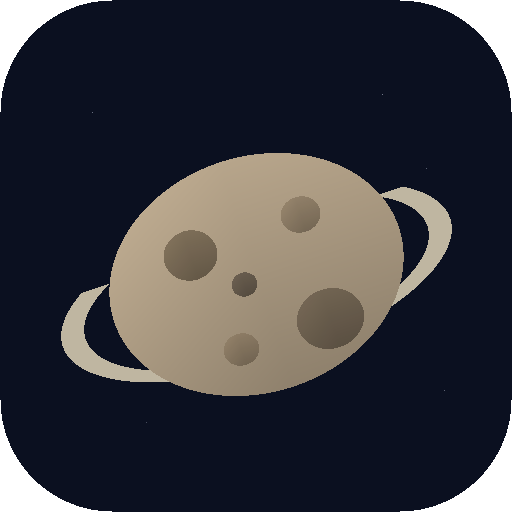
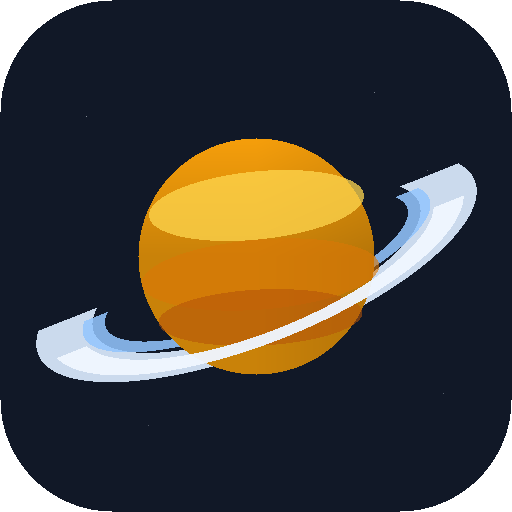
update config

Changed region(s): [[0.0625, 0.25, 0.9375, 0.7812]]

diff --git a/content/publications/_index.md b/content/publications/_index.md
@@ -1,12 +1,18 @@
 ---
 title: Publications
-cms_exclude: true
+date: 2024-01-01
+type: landing
 
-# View.
-view: citation
+sections:
+  - block: markdown
+    content:
+      title: "Publications"
+      subtitle: ""
+      text: |
+        1. **Zhan R.**, D.D.B. Koll, and F. Ding (2024), Novel Atmospheric Dynamics shape Inner Edge of Habitable Zone around White Dwarfs, *The Astrophysical Journal*, 971, 125. [\[journal\]](https://iopscience.iop.org/article/10.3847/1538-4357/ad54c1) [\[arxiv\]](https://arxiv.org/abs/2406.03189)
+        2. **Zhan R.** and D.D.B. Koll, Reinterpreting the JWST Observations of 55 Cancri e with a Nongrey General Circulation Model, under review at *The Astrophysical Journal*.
+        3. **Zhan R.** and D.D.B. Koll, Collapse of Thin Secondary Atmospheres on Hot Rocky Exoplanets, in prep.
 
-# Optional header image (relative to `static/media/` folder).
-banner:
-  caption: ''
-  image: ''
+    design:
+      columns: '1'
 ---

diff --git a/content/papers/_index.md b/content/papers/_index.md
@@ -1,7 +1,11 @@
 ---
-title: Papers
+title: Publications
 date: 2024-01-01
 type: landing
+_build:
+  render: never
+  list: never
+  publishResources: false
 
 sections:
   - block: markdown
@@ -11,8 +15,8 @@ sections:
       # ⚠️ 注意：text: 后面紧跟一个竖线 |，下面的内容必须缩进！
       text: |
         1. **Zhan R.**, D.D.B.Koll , F. Ding (2024), Novel Atmospheric Dynamics shape Inner Edge of Habitable Zone around White Dwarfs, *The Astrophysical Journal*, 971, 125. [\[journal\]](https://iopscience.iop.org/article/10.3847/1538-4357/ad54c1) [\[arxiv\]](https://arxiv.org/abs/2406.03189)
-        2. **Ruizhi Zhan** and Daniel D.B. Koll, Reinterpreting the JWST Observations of 55 Cancri e with a Nongrey General Circulation Model, under review at *The Astrophysical Journal*.
-        3. **Ruizhi Zhan** and Daniel D.B. Koll, Collapse of Thin Secondary Atmospheres on Hot Rocky Exoplanets, in prep.
+        2. **Zhan R.** and D.D.B.Koll, Reinterpreting the JWST Observations of 55 Cancri e with a Nongrey General Circulation Model, under review at *The Astrophysical Journal*.
+        3. **Zhan R.** and D.D.B.Koll, Collapse of Thin Secondary Atmospheres on Hot Rocky Exoplanets, in prep.
         
     design:
       columns: '1' # 使用单列布局，像传统的文档一样

diff --git a/content/research/hot_gcm/index.md b/content/research/hot_gcm/index.md
@@ -33,17 +33,17 @@ links:
     icon_pack: fas
 ---
 
-[Back to Research Index](/research/)
+[Back to Research](/research/)
 
-Rocky exoplanets with ultra-short orbital period are ideal targets for observations and offer a unique opportunity to study planets in extremely hot environment. Due to atmospheric escape, these planets are more likely to be airless like Mercury or have a secondary atmosphere (non-hydrogen dominated) like Earth. Characterizing secondary atmospheres of such exoplanets provides crucial insights into atmospheric escape, redox and equilibrium chemistry, and the exchange with the interior.
+Rocky exoplanets with ultra-short orbital periods are ideal targets for observations and offer a unique opportunity to study planets in extremely hot environments. Due to atmospheric escape, these planets are more likely to be airless like Mercury or to have a secondary atmosphere (non-hydrogen dominated) like Earth. Characterizing secondary atmospheres of such exoplanets provides crucial insights into atmospheric escape, redox and equilibrium chemistry, and exchange with the interior.
 
 {{< figure src="/images/exoplanet_distribution.png" caption="Orbital periods and radii of confirmed exoplanets as of May 2025. The planets located in the red box are rocky exoplanets with ultra-short orbital periods. The color of each point represents the equilibrium temperature of the planet, ranging from 500 to 3,000 K." width="95%" >}}
 
 Despite extensive observations, most current interpretations predominantly relied on 1D models with non-self-consistent heat redistribution or oversimplified 3D models with unrealistic radiative transfer. However, few 3D models with realistic radiative transfer have been applied to these hot (non-habitable) rocky exoplanets, mainly due to the incompatibility of standard GCM radiative transfer codes with the extremely high temperatures.
 
-{{< figure src="/images/line_profile.png" caption="Gaussian and Lorentz profile for absorption line broadening calculations. The coefficients of determination &alpha;<sub>G</sub> (half-width at half-maximum) and &alpha;<sub>L</sub> strongly depends on temperature (highlighted in red). More information on [HITRAN](https://hitran.org/docs/definitions-and-units/)." width="95%" >}}
+{{< figure src="/images/line_profile.png" caption="Gaussian and Lorentz profiles for absorption line broadening calculations. The coefficients of determination &alpha;<sub>G</sub> (half-width at half-maximum) and &alpha;<sub>L</sub> strongly depend on temperature (highlighted in red). More information on [HITRAN](https://hitran.org/docs/definitions-and-units/)." width="95%" >}}
 
-Here we perform non-grey GCM simulations using the custom correlated-k coefficients developed from the [ExoMol](https://www.exomol.com) database. We first use [ExoCross](https://exocross.readthedocs.io/en/latest/) to calculated the absorption cross section from the absorption lines at a wide range of temperatures and pressures. 
+Here we perform non-grey GCM simulations using the custom correlated-k coefficients developed from the [ExoMol](https://www.exomol.com) database. We first use [ExoCross](https://exocross.readthedocs.io/en/latest/) to calculate the absorption cross section from the absorption lines at a wide range of temperatures and pressures. 
 
 Then we develop custom correlated-k coefficients from the absorption cross section (a paper describing the correlated-k method [here](https://agupubs.onlinelibrary.wiley.com/doi/10.1029/90JD01945)) and validate them against line-by-line radiative transfer [PyRADS](https://github.com/danielkoll/PyRADS). We then perform non-grey GCM simulations, [Isca](https://execlim.github.io/Isca/) coupled with [SOCRATES](https://code.metoffice.gov.uk/trac/socrates) for planets including 55 Cancri e.
 

diff --git a/content/life/music/haochen_concert.md b/content/life/music/haochen_concert.md
@@ -6,16 +6,16 @@ tags: ["music", "concert review"]
 type: docs
 ---
 
-[Back to Music](/life/music/) | [Back to After School Life](/life/)
+[Back to Music](/life/music/) | [Back to Life](/life/)
 
 很庆幸这两天经历了这样一场人生体验：张昊辰、黄屹与国家大剧院管弦乐团（蛋交）演绎的拉赫玛尼诺夫钢琴协奏曲全集（和帕格尼尼主题狂想曲），以及演出结束之后的座谈会：“演奏之外”。首先，这是我人生中第一次听这样马拉松式的音乐会。从下午到晚上，除开小跑步去麦当劳吃的晚饭，在音乐厅听了四个多小时（从座谈会上得知，这可能是历史上第五次这样的演出）。
 
 第一场演出的上半场是拉二。巧合的是，我第一次听拉二是2021年初在武汉琴台音乐厅，也是昊辰演奏的，从那以后我深深的爱上了拉二。我总是翻来覆去地听，会在工作、学习的时候听，会在某个刮大风的夜晚听着走回宿舍，会在每年跨年的时候把进度条拖到第二乐章的结尾，庆祝新年的到来。也许是听了太久被电子设备留存、播放的录音，在现场，昊辰和乐团的演奏给了我全新的感受——尤其是第二乐章高潮后的停顿，弦乐再次渐起仿佛自遥远的时空而来，如浪潮般涌动的旋律，让我一下子没能控制住眼泪。下半场是拉一和帕格尼尼主题狂想曲，虽然对曲目没有那么熟悉，但是也有新的感受。拉一的第一乐章让我感到了压抑，第二乐章“明亮又克制”，第三乐章只记得非常有记忆点的旋律了（开头那个）哈哈哈。帕格尼尼主题狂想曲则是小提琴帕24的变奏版本，我最熟悉的大调变奏（镜像）在现场的演奏也十分震撼。
 
-![Haochen Concert 1](haochen_concert1.jpg)
+![Haochen Concert 1](/images/life/music/haochen_concert1.jpg)
 
 第二场音乐会的上半场是拉四，很遗憾我的审美还在更传统的浪漫乐派。下半场是我最最期待的拉三，其实安排拉三在最后一首就让我很惊讶，这是何等的体力能在演完前面四首曲子之后继续“铲煤”。最后演出更是出乎意料的好，可能是到了马拉松最后一程全力冲刺哈哈哈。第一乐章的大华彩（爽！），非常连贯的第二和第三乐章（无人能拒绝第二乐章结尾和第三乐章开头）（爽！），音色非常美的第二主题（爽！）。总而言之，是一场近乎完美的马拉松。如果一定要挑什么刺，那只能是钢琴和乐团有些地方没对上，可能是因为他们排练时间紧张（后面的座谈会提到真正的排练只有10天）。
 
 在这之后的座谈会，更是完善了这场演出——表演者本人深刻的思考。昊辰说，不应有“天才”这个称呼，“天才”应是常能激起不满的人，艺术创作应该“常常不满”。我不能更认同这个想法了，不只是艺术创作，科研、各行各业的工作都在“不满”中取得进步。昊辰将天赋和努力类比成表演中的音乐和技术，当听众觉得某个音好听的时候，也应当知晓其后的技术。昊辰说，演奏家必须坚持自己的审美，不应被外界影响。然而这很困难，因为我们活在社会里，都会下意识想变成“其他人”。例如人的欲望不是天生就有的，而是社会赋予的。我们应当时刻反思，社会带给了我们什么影响。我们被外界影响是不可控制的，但是可以试图控制、掌握它。昊辰作为演奏家和作者，也讨论了他对文字和音乐的看法。音乐演奏是在重复中锤炼，是生理性的（刻入肌肉记忆哈哈哈）；写书则是给不定性的东西定性，是思想性的。他想要写书，因为音乐是语言，需要被谈论，被形容。
 
-![Haochen Concert 2](haochen_concert2.jpg)
+![Haochen Concert 2](/images/life/music/haochen_concert2.jpg)

diff --git a/content/_index.md b/content/_index.md
@@ -14,7 +14,7 @@ sections:
       # Choose a user profile to display (a folder name within `content/authors/`)
       username: me
       text: |
-        Hi there! I am a 4th year Ph.D student at [Peking University](https://www.pku.edu.cn/) under the supervision of [Prof. Daniel Koll](https://danielkoll.github.io/). From May to November 2026, I am a visiting PhD student at the [Institute of Astronomy](https://www.ast.cam.ac.uk/), [University of Cambridge](https://www.cam.ac.uk/). I was an undergraduate student of physics and astronomy at [Wuhan University](https://www.whu.edu.cn/) (BSc 2022). 
+        Hi there! I am a fourth-year PhD student at the [Department of Atmospheric and Oceanic Sciences](https://www.atmos.pku.edu.cn/), [Peking University](https://www.pku.edu.cn/), under the supervision of [Prof. Daniel Koll](https://danielkoll.github.io/). I was an undergraduate student in physics and astronomy at [Wuhan University](https://www.whu.edu.cn/) (BSc 2022). From May to November 2026, I am a visiting PhD student at the [Institute of Astronomy](https://www.ast.cam.ac.uk/), [University of Cambridge](https://www.cam.ac.uk/).
 
         I have been longing for the universe and space since I was a child. This passion led me to choose physics as my major in college, where I was fortunate to join the Qibin (启斌) Astronomy Program and gained some hands-on experience in modeling strong gravitational lensing. Later by chance, I got to know and fell in love with the field of [exoplanets](https://en.wikipedia.org/wiki/Exoplanet), the worlds beyond the Solar System. 
 

diff --git a/content/life/music/_index.md b/content/life/music/_index.md
@@ -6,7 +6,7 @@ tags: ["music"]
 type: docs
 ---
 
-[Back to After School Life](/life/)
+[Back to Life](/life/)
 
 Music has always been a significant part of my life, evolving from a childhood hobby into a lifelong passion. Under the influence of my grandma, I began learning to sing and read sheet music at a very young age. She was a talented multi-instrumentalist who played the accordion, Pipa(琵琶), Zhongruan(中阮), and Yangqin(扬琴). When I entered primary school, she chose **Erhu(二胡)** for me to learn. This beautiful instrument accompanied me throughout my entire primary and middle school years.
 

diff --git a/content/life/music/recording.md b/content/life/music/recording.md
@@ -6,7 +6,7 @@ tags: ["recording"]
 type: docs
 ---
 
-[Back to Music](/life/music/) | [Back to After School Life](/life/)
+[Back to Music](/life/music/) | [Back to Life](/life/)
 
 Here are some of my favorite recordings. I hope you enjoy them as much as I do!
 

diff --git a/content/life/photography/2025/_index.md b/content/life/photography/2025/_index.md
@@ -6,7 +6,7 @@ cascade:
   type: docs
 ---
 
-[Back to Photography Log](/life/photography/) | [Back to After School Life](/life/)
+[Back to Photography Log](/life/photography/) | [Back to Life](/life/)
 
 ## 2025
 

diff --git a/content/life/photography/2026/_index.md b/content/life/photography/2026/_index.md
@@ -6,7 +6,7 @@ cascade:
   type: docs
 ---
 
-[Back to Photography Log](/life/photography/) | [Back to After School Life](/life/)
+[Back to Photography Log](/life/photography/) | [Back to Life](/life/)
 
 ## 2026
 

diff --git a/content/life/photography/_index.md b/content/life/photography/_index.md
@@ -9,7 +9,7 @@ cascade:
   - type: docs
 ---
 
-[Back to After School Life](/life/)
+[Back to Life](/life/)
 
 Welcome to my photography log. Use the index below to navigate through times and locations.
 

diff --git a/content/research/_index.md b/content/research/_index.md
@@ -8,7 +8,7 @@ cascade:
 🪐 My Research
 My Ph.D project focuses on atmosphere modeling of rocky exoplanets with ultra-short orbital periods, utilizing 3D GCMs (Global Climate Model / General Circulation Model).
 
-## Research Index
+## Click to Read More
 
 - [Atmospheres of Hot Rocky Planets with Ultra-Short Orbital Period](/research/hot_gcm/)
 - [Habitable Zone Around "Dead Stars"?](/research/wd_hz/)

diff --git a/content/research/wd_hz/index.md b/content/research/wd_hz/index.md
@@ -37,7 +37,7 @@ slides: ""
 ---
 ---
 
-[Back to Research Index](/research/)
+[Back to Research](/research/)
 
 [White dwarfs](https://en.wikipedia.org/wiki/White_dwarf) are compact stars with a size comparable to Earth and a mass comparable to Sun. Planets in the [habitable zone](https://science.nasa.gov/resource/what-is-the-habitable-zone/) (read more about the habitable zone edges [here](https://www.researchgate.net/publication/11809380_Habitable_zones_around_main_sequence_stars)) around white dwarfs have **ultra-short orbital periods** ranging from hours to days. 
 